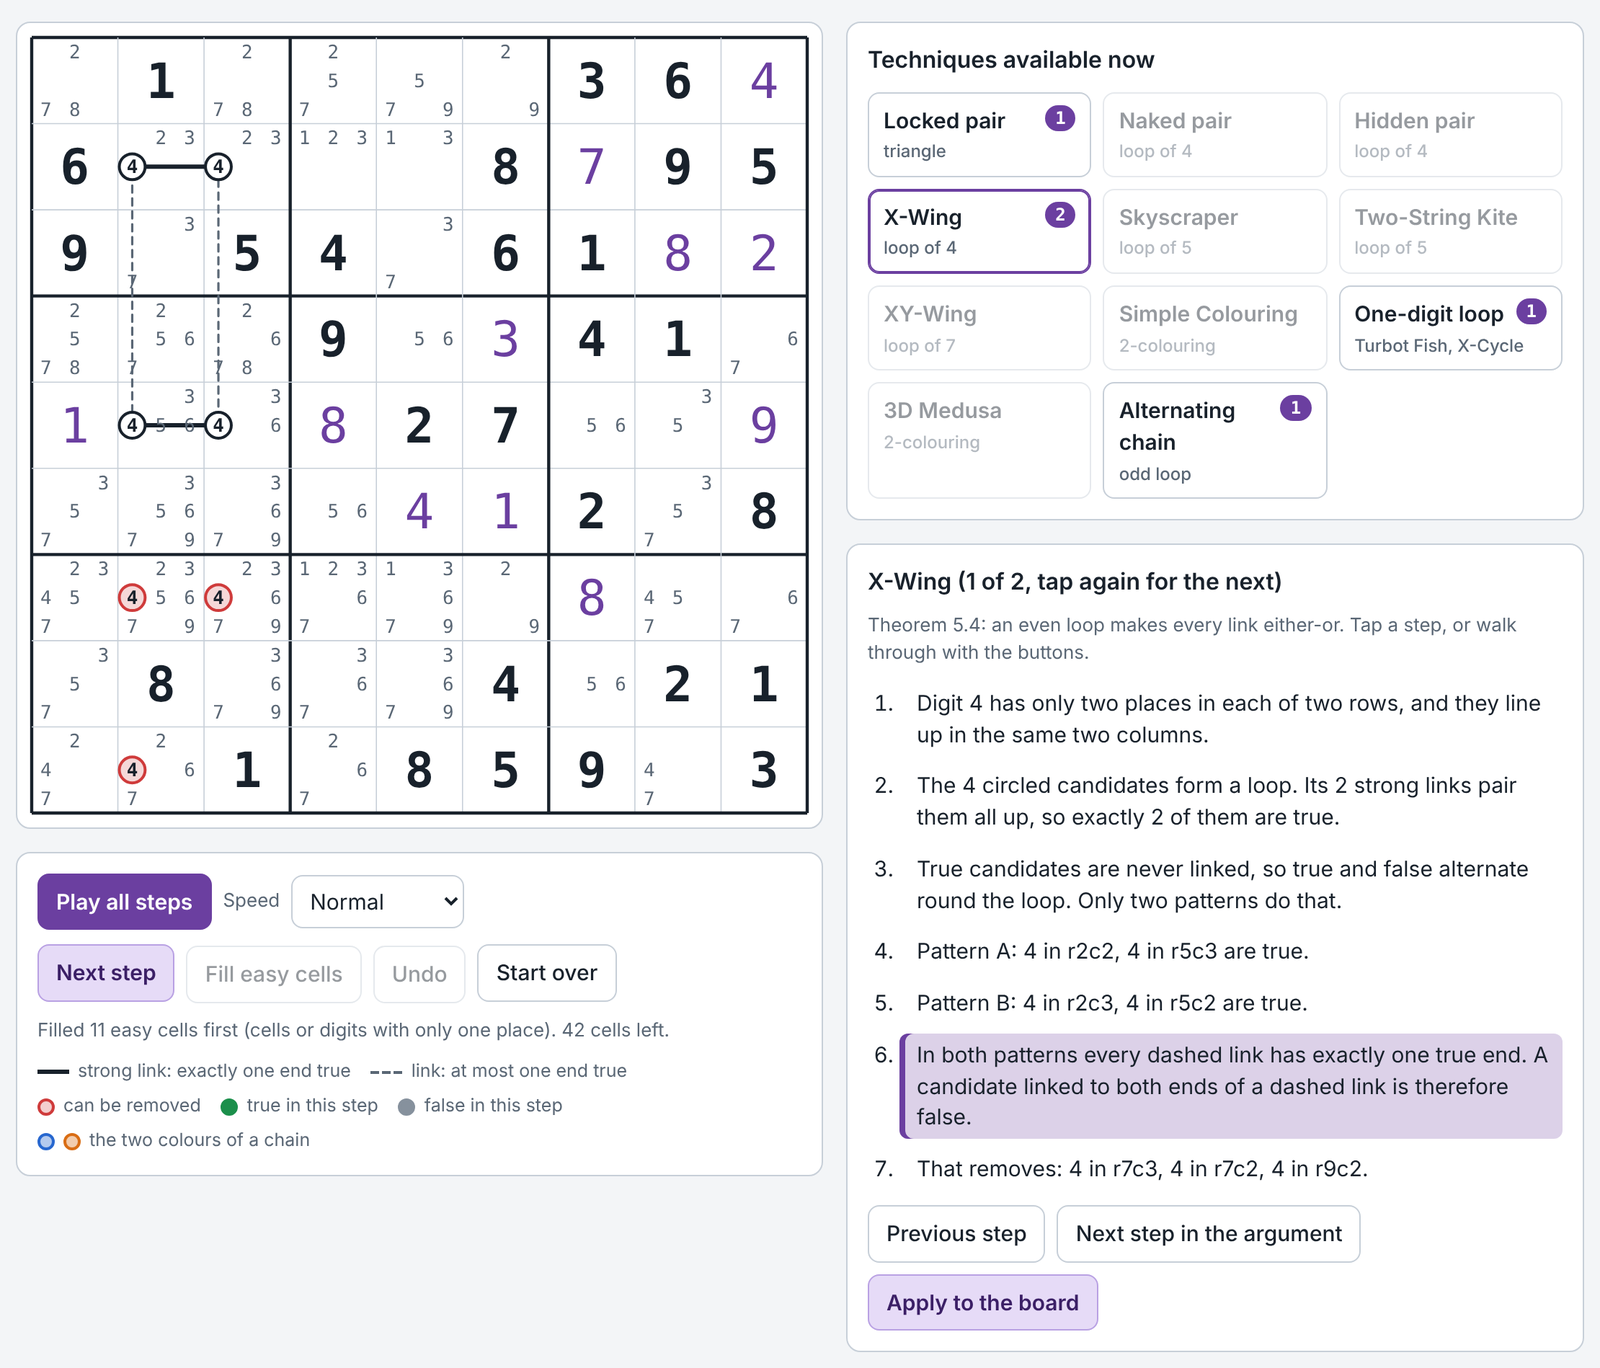
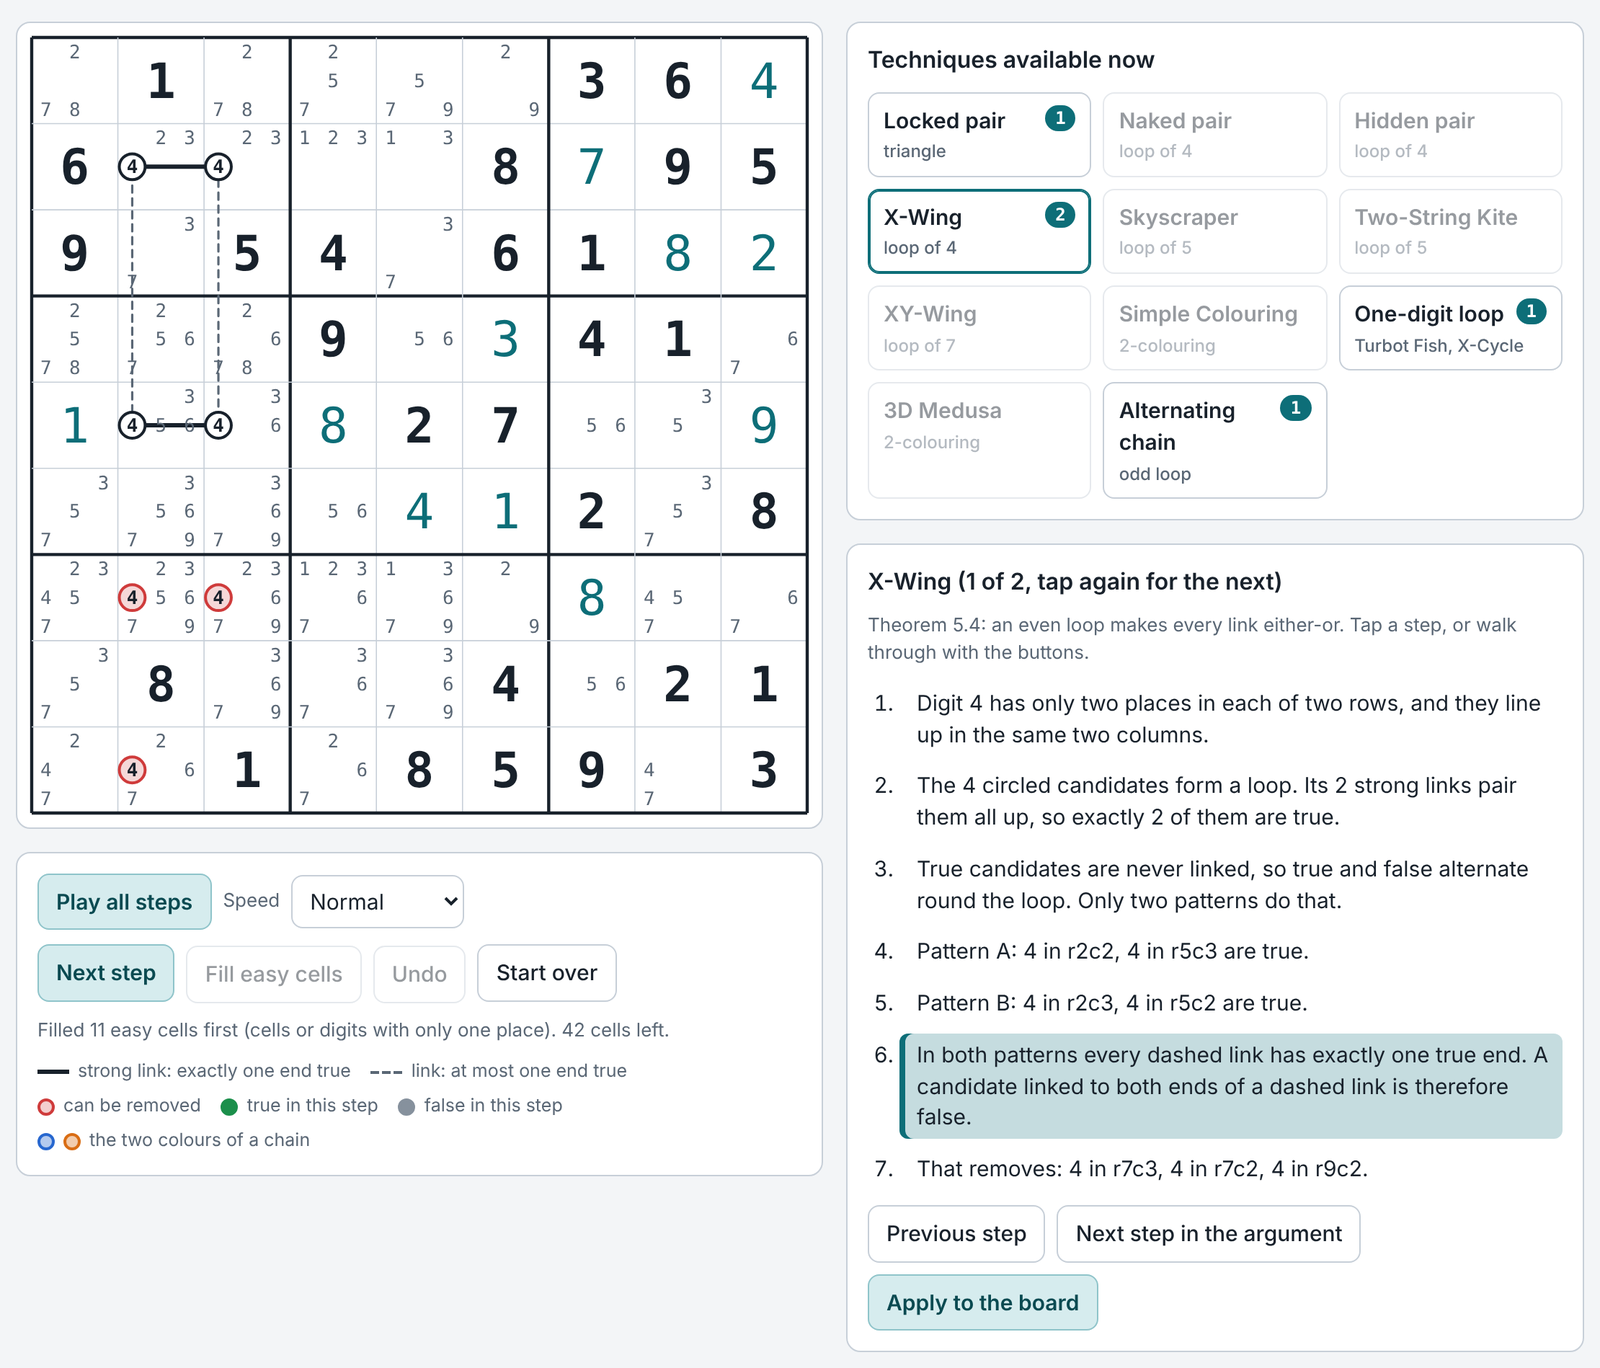
Back to teal as the main colour, with light buttons throughout
Play all steps, Next step and Apply to the board are a light teal with
dark text. No solid dark buttons remain.

Claude-Session: https://claude.ai/code/session_0161PMRBv2Fxor83Lofabj9S

diff --git a/index.html b/index.html
@@ -8,19 +8,19 @@
 <style>
 :root {
   /* layout: board on the left, explanation on the right; one column on phones */
-  --paper: #f3f5f7; --panel: #ffffff; --ink: #18212b; --muted: #5a6775; --line: #c7cfd8; --accent: #6b3fa0; --soft: #e6dbf7; --soft-line: #b9a1e3; --on-soft: #3b1f66;
+  --paper: #f3f5f7; --panel: #ffffff; --ink: #18212b; --muted: #5a6775; --line: #c7cfd8; --accent: #0d6e78; --soft: #d6ecee; --soft-line: #8fc4ca; --on-soft: #0a4a51;
   --true: #1b8f4b; --false: #86919d; --out: #cf3b3b; --k0: #2767cf; --k1: #d96d14;
   --font-body: 'IBM Plex Sans', system-ui, -apple-system, 'Segoe UI', sans-serif;
   --font-mono: 'IBM Plex Mono', ui-monospace, 'SF Mono', Menlo, monospace;
 }
 @media (prefers-color-scheme: dark) {
   :root:not([data-theme="light"]) {
-    --paper: #11161c; --panel: #19212a; --ink: #e6ecf2; --muted: #9ba8b5; --line: #37434f; --accent: #c9aef2; --soft: #c9aef2; --soft-line: #c9aef2; --on-soft: #19212a;
+    --paper: #11161c; --panel: #19212a; --ink: #e6ecf2; --muted: #9ba8b5; --line: #37434f; --accent: #56c4cf; --soft: #56c4cf; --soft-line: #56c4cf; --on-soft: #19212a;
     --true: #45c680; --false: #7a8692; --out: #ff7070; --k0: #6fa8ff; --k1: #ffa457; color-scheme: dark;
   }
 }
 :root[data-theme="dark"] {
-  --paper: #11161c; --panel: #19212a; --ink: #e6ecf2; --muted: #9ba8b5; --line: #37434f; --accent: #c9aef2; --soft: #c9aef2; --soft-line: #c9aef2; --on-soft: #19212a;
+  --paper: #11161c; --panel: #19212a; --ink: #e6ecf2; --muted: #9ba8b5; --line: #37434f; --accent: #56c4cf; --soft: #56c4cf; --soft-line: #56c4cf; --on-soft: #19212a;
   --true: #45c680; --false: #7a8692; --out: #ff7070; --k0: #6fa8ff; --k1: #ffa457; color-scheme: dark;
 }
 * { box-sizing: border-box; }
@@ -50,7 +50,7 @@ select { flex: 1 1 220px; }
 button { font: inherit; font-weight: 500; color: var(--ink); background: var(--panel); border: 1px solid var(--line); border-radius: 8px; padding: 8px 12px; cursor: pointer; }
 button:hover:not(:disabled) { border-color: var(--accent); }
 button:disabled { opacity: 0.45; cursor: default; }
-/* main buttons are a light purple with dark text, not a solid block */
+/* main buttons are a light tint of the main colour with dark text, not a solid block */
 button.primary { background: var(--soft); border-color: var(--soft-line); color: var(--on-soft); font-weight: 600; }
 button.primary:hover:not(:disabled) { border-color: var(--accent); }
 :focus-visible { outline: 2px solid var(--accent); outline-offset: 2px; }
@@ -80,10 +80,8 @@ ol#steps li.on { background: color-mix(in srgb, var(--accent) 24%, transparent);
 .dot.a { border-color: var(--k0); background: color-mix(in srgb, var(--k0) 35%, transparent); }
 .dot.b { border-color: var(--k1); background: color-mix(in srgb, var(--k1) 35%, transparent); }
 select#speed { flex: 0 0 auto; padding: 7px 8px; }
-/* The play button is the one solid dark-purple button, in both themes, so it is easy to find. */
-#play { background: #6b3fa0; border-color: #6b3fa0; color: #ffffff; font-weight: 600; }
-#play:hover:not(:disabled) { background: #57308a; border-color: #57308a; }
-#play[aria-pressed="true"] { box-shadow: inset 0 0 0 2px #ffffff; }
+/* While playing, the play button gets a ring so it reads as active. */
+#play[aria-pressed="true"] { box-shadow: inset 0 0 0 2px var(--accent); }
 /* a candidate being removed: it pulses, is struck through, then shrinks away */
 #grid .going, #grid .landing { transform-box: fill-box; transform-origin: center; }
 #grid .going { animation: going var(--dur, 1100ms) ease-in forwards; }
@@ -127,7 +125,7 @@ select#speed { flex: 0 0 auto; padding: 7px 8px; }
       </section>
       <section class="card" aria-label="Moves">
         <div class="row">
-          <button id="play" type="button" aria-pressed="false">Play all steps</button>
+          <button id="play" type="button" class="primary" aria-pressed="false">Play all steps</button>
           <label for="speed">Speed</label>
           <select id="speed" aria-label="Playback speed">
             <option value="2800">Slow</option>

diff --git a/src/index.src.html b/src/index.src.html
@@ -8,19 +8,19 @@
 <style>
 :root {
   /* layout: board on the left, explanation on the right; one column on phones */
-  --paper: #f3f5f7; --panel: #ffffff; --ink: #18212b; --muted: #5a6775; --line: #c7cfd8; --accent: #6b3fa0; --soft: #e6dbf7; --soft-line: #b9a1e3; --on-soft: #3b1f66;
+  --paper: #f3f5f7; --panel: #ffffff; --ink: #18212b; --muted: #5a6775; --line: #c7cfd8; --accent: #0d6e78; --soft: #d6ecee; --soft-line: #8fc4ca; --on-soft: #0a4a51;
   --true: #1b8f4b; --false: #86919d; --out: #cf3b3b; --k0: #2767cf; --k1: #d96d14;
   --font-body: 'IBM Plex Sans', system-ui, -apple-system, 'Segoe UI', sans-serif;
   --font-mono: 'IBM Plex Mono', ui-monospace, 'SF Mono', Menlo, monospace;
 }
 @media (prefers-color-scheme: dark) {
   :root:not([data-theme="light"]) {
-    --paper: #11161c; --panel: #19212a; --ink: #e6ecf2; --muted: #9ba8b5; --line: #37434f; --accent: #c9aef2; --soft: #c9aef2; --soft-line: #c9aef2; --on-soft: #19212a;
+    --paper: #11161c; --panel: #19212a; --ink: #e6ecf2; --muted: #9ba8b5; --line: #37434f; --accent: #56c4cf; --soft: #56c4cf; --soft-line: #56c4cf; --on-soft: #19212a;
     --true: #45c680; --false: #7a8692; --out: #ff7070; --k0: #6fa8ff; --k1: #ffa457; color-scheme: dark;
   }
 }
 :root[data-theme="dark"] {
-  --paper: #11161c; --panel: #19212a; --ink: #e6ecf2; --muted: #9ba8b5; --line: #37434f; --accent: #c9aef2; --soft: #c9aef2; --soft-line: #c9aef2; --on-soft: #19212a;
+  --paper: #11161c; --panel: #19212a; --ink: #e6ecf2; --muted: #9ba8b5; --line: #37434f; --accent: #56c4cf; --soft: #56c4cf; --soft-line: #56c4cf; --on-soft: #19212a;
   --true: #45c680; --false: #7a8692; --out: #ff7070; --k0: #6fa8ff; --k1: #ffa457; color-scheme: dark;
 }
 * { box-sizing: border-box; }
@@ -50,7 +50,7 @@ select { flex: 1 1 220px; }
 button { font: inherit; font-weight: 500; color: var(--ink); background: var(--panel); border: 1px solid var(--line); border-radius: 8px; padding: 8px 12px; cursor: pointer; }
 button:hover:not(:disabled) { border-color: var(--accent); }
 button:disabled { opacity: 0.45; cursor: default; }
-/* main buttons are a light purple with dark text, not a solid block */
+/* main buttons are a light tint of the main colour with dark text, not a solid block */
 button.primary { background: var(--soft); border-color: var(--soft-line); color: var(--on-soft); font-weight: 600; }
 button.primary:hover:not(:disabled) { border-color: var(--accent); }
 :focus-visible { outline: 2px solid var(--accent); outline-offset: 2px; }
@@ -80,10 +80,8 @@ ol#steps li.on { background: color-mix(in srgb, var(--accent) 24%, transparent);
 .dot.a { border-color: var(--k0); background: color-mix(in srgb, var(--k0) 35%, transparent); }
 .dot.b { border-color: var(--k1); background: color-mix(in srgb, var(--k1) 35%, transparent); }
 select#speed { flex: 0 0 auto; padding: 7px 8px; }
-/* The play button is the one solid dark-purple button, in both themes, so it is easy to find. */
-#play { background: #6b3fa0; border-color: #6b3fa0; color: #ffffff; font-weight: 600; }
-#play:hover:not(:disabled) { background: #57308a; border-color: #57308a; }
-#play[aria-pressed="true"] { box-shadow: inset 0 0 0 2px #ffffff; }
+/* While playing, the play button gets a ring so it reads as active. */
+#play[aria-pressed="true"] { box-shadow: inset 0 0 0 2px var(--accent); }
 /* a candidate being removed: it pulses, is struck through, then shrinks away */
 #grid .going, #grid .landing { transform-box: fill-box; transform-origin: center; }
 #grid .going { animation: going var(--dur, 1100ms) ease-in forwards; }
@@ -127,7 +125,7 @@ select#speed { flex: 0 0 auto; padding: 7px 8px; }
       </section>
       <section class="card" aria-label="Moves">
         <div class="row">
-          <button id="play" type="button" aria-pressed="false">Play all steps</button>
+          <button id="play" type="button" class="primary" aria-pressed="false">Play all steps</button>
           <label for="speed">Speed</label>
           <select id="speed" aria-label="Playback speed">
             <option value="2800">Slow</option>

diff --git a/writeup/index.html b/writeup/index.html
@@ -6,8 +6,8 @@
 <title>Why Advanced Sudoku Strategies Work</title>
 <link rel="stylesheet" href="https://cdn.jsdelivr.net/npm/katex@0.16.11/dist/katex.min.css">
 <style>
-:root { --paper: #f6f7f9; --panel: #ffffff; --ink: #18212b; --muted: #5a6775; --line: #d3dae1; --accent: #6b3fa0; }
-@media (prefers-color-scheme: dark) { :root { --paper: #11161c; --panel: #19212a; --ink: #e6ecf2; --muted: #9ba8b5; --line: #37434f; --accent: #c9aef2; color-scheme: dark; } }
+:root { --paper: #f6f7f9; --panel: #ffffff; --ink: #18212b; --muted: #5a6775; --line: #d3dae1; --accent: #0d6e78; }
+@media (prefers-color-scheme: dark) { :root { --paper: #11161c; --panel: #19212a; --ink: #e6ecf2; --muted: #9ba8b5; --line: #37434f; --accent: #56c4cf; color-scheme: dark; } }
 * { box-sizing: border-box; }
 body { margin: 0; background: var(--paper); color: var(--ink); font: 17px/1.6 system-ui, -apple-system, "Segoe UI", Roboto, sans-serif; }
 main { max-width: 760px; margin: 0 auto; padding: 24px 18px 80px; }
